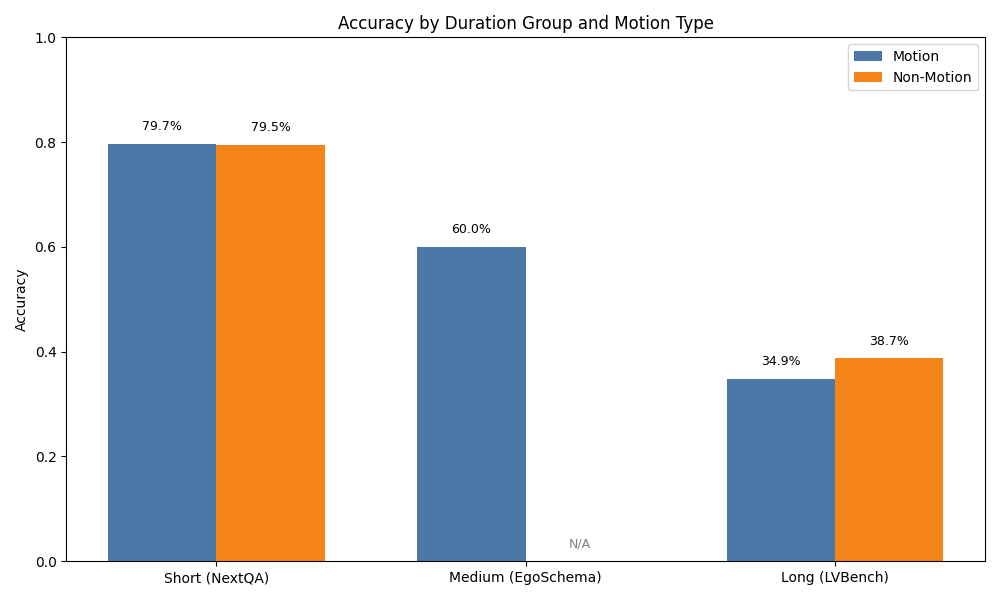
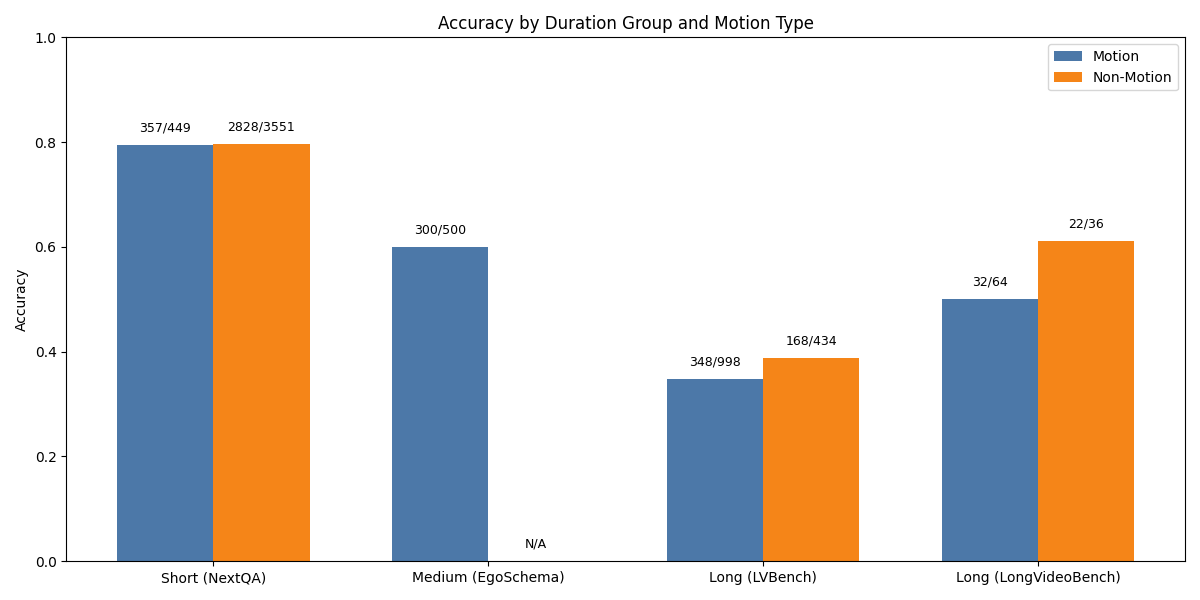
updating visualization results

diff --git a/analyzing_results/analyze_longvideobench_results.py b/analyzing_results/analyze_longvideobench_results.py
@@ -1,0 +1,129 @@
+import json
+import pandas as pd
+import matplotlib.pyplot as plt
+import seaborn as sns
+import os
+import glob
+from tqdm import tqdm
+
+
+def analyze_results():
+    # Resolve data paths (prefer compiled_qa_data if available)
+    qa_jsonl = 'compiled_qa_data/qa.jsonl' if os.path.exists('compiled_qa_data/qa.jsonl') else 'qa.jsonl'
+    qa_labeled = 'compiled_qa_data/qa_data_labeled.json' if os.path.exists('compiled_qa_data/qa_data_labeled.json') else 'qa_data_labeled.json'
+
+    print("Creating question_id to global_id mapping from qa.jsonl...")
+    question_id_to_global_id = {}
+    with open(qa_jsonl, 'r', encoding='utf-8') as f:
+        for line in tqdm(f):
+            data = json.loads(line)
+            question_id_to_global_id[data['question_id']] = data['global_id']
+    print(f"Found {len(question_id_to_global_id)} mappings in {qa_jsonl}")
+
+    print("Creating global_id to has_motion mapping from qa_data_labeled.json...")
+    global_id_to_has_motion = {}
+    with open(qa_labeled, 'r', encoding='utf-8') as f:
+        qa_data = json.load(f)
+        for item in tqdm(qa_data):
+            if 'global_id' in item and 'has_motion' in item:
+                global_id_to_has_motion[item['global_id']] = item['has_motion']
+    print(f"Found {len(global_id_to_has_motion)} mappings in {qa_labeled}")
+
+    # Auto-discover LongVideoBench result files
+    result_files = sorted(glob.glob('output/internvl-longvideobench-*/OpenGVLab__InternVL2-8B/*.jsonl'))
+    print(f"Discovered {len(result_files)} LongVideoBench result files")
+
+    print("Processing result files...")
+    results = []
+    for file_path in result_files:
+        if not os.path.exists(file_path):
+            print(f"Warning: File not found - {file_path}")
+            continue
+        with open(file_path, 'r', encoding='utf-8') as f:
+            for line in tqdm(f, desc=f"Processing {os.path.basename(file_path)}"):
+                data = json.loads(line)
+                if 'motion_analysis_bench_acc' in data:
+                    bench_data = data['motion_analysis_bench_acc']
+                    question_id = bench_data.get('question_id')
+                    correct = bench_data.get('correct')
+                else:
+                    question_id = data.get('question_id')
+                    correct = data.get('correct')
+                if question_id is None or correct is None:
+                    continue
+                global_id = question_id_to_global_id.get(question_id)
+                if global_id:
+                    has_motion = global_id_to_has_motion.get(global_id)
+                    if has_motion is not None:
+                        results.append({'correct': bool(correct), 'has_motion': bool(has_motion)})
+
+    if not results:
+        print("No results found. Exiting.")
+        return
+
+    df = pd.DataFrame(results)
+
+    print("\n--- LongVideoBench Analysis Report ---")
+    overall_accuracy = df['correct'].mean()
+    print(f"Overall Accuracy: {overall_accuracy:.2%}")
+
+    motion_df = df[df['has_motion'] == True]
+    non_motion_df = df[df['has_motion'] == False]
+
+    if not motion_df.empty:
+        motion_accuracy = motion_df['correct'].mean()
+        motion_counts = motion_df['correct'].value_counts()
+        print(f"Motion Questions Accuracy: {motion_accuracy:.2%}")
+        print(f"Motion Correct: {motion_counts.get(True, 0)}, Incorrect: {motion_counts.get(False, 0)}")
+
+    if not non_motion_df.empty:
+        non_motion_accuracy = non_motion_df['correct'].mean()
+        non_motion_counts = non_motion_df['correct'].value_counts()
+        print(f"Non-Motion Questions Accuracy: {non_motion_accuracy:.2%}")
+        print(f"Non-Motion Correct: {non_motion_counts.get(True, 0)}, Incorrect: {non_motion_counts.get(False, 0)}")
+
+    print("-----------------------\n")
+
+    print("Generating visualizations...")
+
+    out_dir = os.path.join('internvl-8b', 'longvideobench_results')
+    os.makedirs(out_dir, exist_ok=True)
+
+    plt.figure(figsize=(8, 6))
+    sns.countplot(x='correct', data=df)
+    plt.title('LongVideoBench: Overall Distribution of Correct and Incorrect Answers')
+    plt.xlabel('Answer Correctness')
+    plt.ylabel('Count')
+    plt.savefig(os.path.join(out_dir, 'overall_distribution_longvideobench.png'))
+
+    plt.figure(figsize=(10, 6))
+    sns.countplot(x='has_motion', hue='correct', data=df)
+    plt.title('LongVideoBench: Distribution of Answers by Motion Category')
+    plt.xlabel('Has Motion')
+    plt.ylabel('Count')
+    plt.xticks(ticks=[0, 1], labels=['Non-Motion', 'Motion'])
+    plt.legend(title='Correctness')
+    plt.savefig(os.path.join(out_dir, 'motion_distribution_longvideobench.png'))
+
+    accuracy_data = {
+        'Category': ['Overall', 'Motion', 'Non-Motion'],
+        'Accuracy': [overall_accuracy,
+                     motion_df['correct'].mean() if not motion_df.empty else 0,
+                     non_motion_df['correct'].mean() if not non_motion_df.empty else 0]
+    }
+    accuracy_df = pd.DataFrame(accuracy_data)
+
+    plt.figure(figsize=(8, 6))
+    sns.barplot(x='Category', y='Accuracy', data=accuracy_df)
+    plt.title('LongVideoBench: Accuracy by Category')
+    plt.ylabel('Accuracy')
+    plt.ylim(0, 1)
+    for index, row in accuracy_df.iterrows():
+        plt.text(row.name, row.Accuracy + 0.02, f"{row.Accuracy:.2%}", color='black', ha='center')
+    plt.savefig(os.path.join(out_dir, 'accuracy_by_category_longvideobench.png'))
+
+    print("Saved LongVideoBench figures into", out_dir)
+
+
+if __name__ == '__main__':
+    analyze_results()

diff --git a/analyzing_results/analyze_benchmark_comparison.py b/analyzing_results/analyze_benchmark_comparison.py
@@ -81,7 +81,7 @@ def compute_accuracy(pairs: List[Tuple[bool, bool]]) -> Dict[str, float]:
 
 
 def main():
-    # Resolve data paths (prefer compiled_qa_data if available)
+    # Prefer compiled_qa_data
     qa_jsonl = 'compiled_qa_data/qa.jsonl' if os.path.exists('compiled_qa_data/qa.jsonl') else 'qa.jsonl'
     qa_labeled = 'compiled_qa_data/qa_data_labeled.json' if os.path.exists('compiled_qa_data/qa_data_labeled.json') else 'qa_data_labeled.json'
 
@@ -90,23 +90,40 @@ def main():
 
     # Auto-discover files for each benchmark
     lvbench_files = sorted(glob.glob('output/internvl-lvbench-*/OpenGVLab__InternVL2-8B/*.jsonl'))
+    longvideobench_files = sorted(glob.glob('output/internvl-longvideobench-*/OpenGVLab__InternVL2-8B/*.jsonl'))
     nextqa_files = sorted(glob.glob('output/internvl-nextqa-*/OpenGVLab__InternVL2-8B/*.jsonl'))
     egoschema_files = sorted(glob.glob('output/internvl-egoschema-*/OpenGVLab__InternVL2-8B/*.jsonl'))
 
     print('Collecting LVBench...')
     lv_pairs = collect_results(lvbench_files, qid2gid, gid2motion)
+    print('Collecting LongVideoBench...')
+    lvb_pairs = collect_results(longvideobench_files, qid2gid, gid2motion)
     print('Collecting NextQA...')
     nq_pairs = collect_results(nextqa_files, qid2gid, gid2motion)
     print('Collecting EgoSchema...')
     ego_pairs = collect_results(egoschema_files, qid2gid, gid2motion)
 
     lv_stats = compute_accuracy(lv_pairs)
+    lvb_stats = compute_accuracy(lvb_pairs)
     nq_stats = compute_accuracy(nq_pairs)
     ego_stats = compute_accuracy(ego_pairs)
 
-    groups = ['Short (NextQA)', 'Medium (EgoSchema)', 'Long (LVBench)']
-    motion_vals = [nq_stats['motion'], ego_stats['motion'], lv_stats['motion']]
-    non_motion_vals = [nq_stats['non_motion'], ego_stats['non_motion'], lv_stats['non_motion']]
+    groups = ['Short (NextQA)', 'Medium (EgoSchema)', 'Long (LVBench)', 'Long (LongVideoBench)']
+    motion_vals = [nq_stats['motion'], ego_stats['motion'], lv_stats['motion'], lvb_stats['motion']]
+    non_motion_vals = [nq_stats['non_motion'], ego_stats['non_motion'], lv_stats['non_motion'], lvb_stats['non_motion']]
+
+    # counts for labels
+    motion_correct = [nq_stats['motion_correct'], ego_stats['motion_correct'], lv_stats['motion_correct'], lvb_stats['motion_correct']]
+    motion_total = [nq_stats['motion_correct'] + nq_stats['motion_incorrect'],
+                    ego_stats['motion_correct'] + ego_stats['motion_incorrect'],
+                    lv_stats['motion_correct'] + lv_stats['motion_incorrect'],
+                    lvb_stats['motion_correct'] + lvb_stats['motion_incorrect']]
+
+    non_motion_correct = [nq_stats['non_motion_correct'], ego_stats['non_motion_correct'], lv_stats['non_motion_correct'], lvb_stats['non_motion_correct']]
+    non_motion_total = [nq_stats['non_motion_correct'] + nq_stats['non_motion_incorrect'],
+                        ego_stats['non_motion_correct'] + ego_stats['non_motion_incorrect'],
+                        lv_stats['non_motion_correct'] + lv_stats['non_motion_incorrect'],
+                        lvb_stats['non_motion_correct'] + lvb_stats['non_motion_incorrect']]
 
     out_dir = os.path.join('internvl-8b', 'comparison_results')
     os.makedirs(out_dir, exist_ok=True)
@@ -114,7 +131,7 @@ def main():
     x = np.arange(len(groups))
     width = 0.35
 
-    fig, ax = plt.subplots(figsize=(10, 6))
+    fig, ax = plt.subplots(figsize=(12, 6))
     rects1 = ax.bar(x - width/2, motion_vals, width, label='Motion', color='#4C78A8')
     rects2 = ax.bar(x + width/2, non_motion_vals, width, label='Non-Motion', color='#F58518')
 
@@ -124,21 +141,22 @@ def main():
     ax.set_ylim(0, 1)
     ax.legend()
 
-    def autolabel(rects):
-        for rect in rects:
+    def autolabel(rects, correct_counts, total_counts):
+        for idx, rect in enumerate(rects):
             height = rect.get_height()
-            if np.isnan(height):
+            total = total_counts[idx]
+            correct = correct_counts[idx]
+            if total == 0 or np.isnan(height):
                 label = 'N/A'
-                height = 0
-                rect.set_height(0)
-                ax.text(rect.get_x() + rect.get_width()/2., 0.02, label,
-                        ha='center', va='bottom', fontsize=9, color='gray')
+                y = 0.02
             else:
-                ax.text(rect.get_x() + rect.get_width()/2., height + 0.02,
-                        f'{height*100:.1f}%', ha='center', va='bottom', fontsize=9)
+                label = f'{correct}/{total}'
+                y = height + 0.02
+            ax.text(rect.get_x() + rect.get_width()/2., y, label,
+                    ha='center', va='bottom', fontsize=9)
 
-    autolabel(rects1)
-    autolabel(rects2)
+    autolabel(rects1, motion_correct, motion_total)
+    autolabel(rects2, non_motion_correct, non_motion_total)
 
     fig.tight_layout()
     out_path = os.path.join(out_dir, 'motion_nonmotion_accuracy_by_duration.png')
